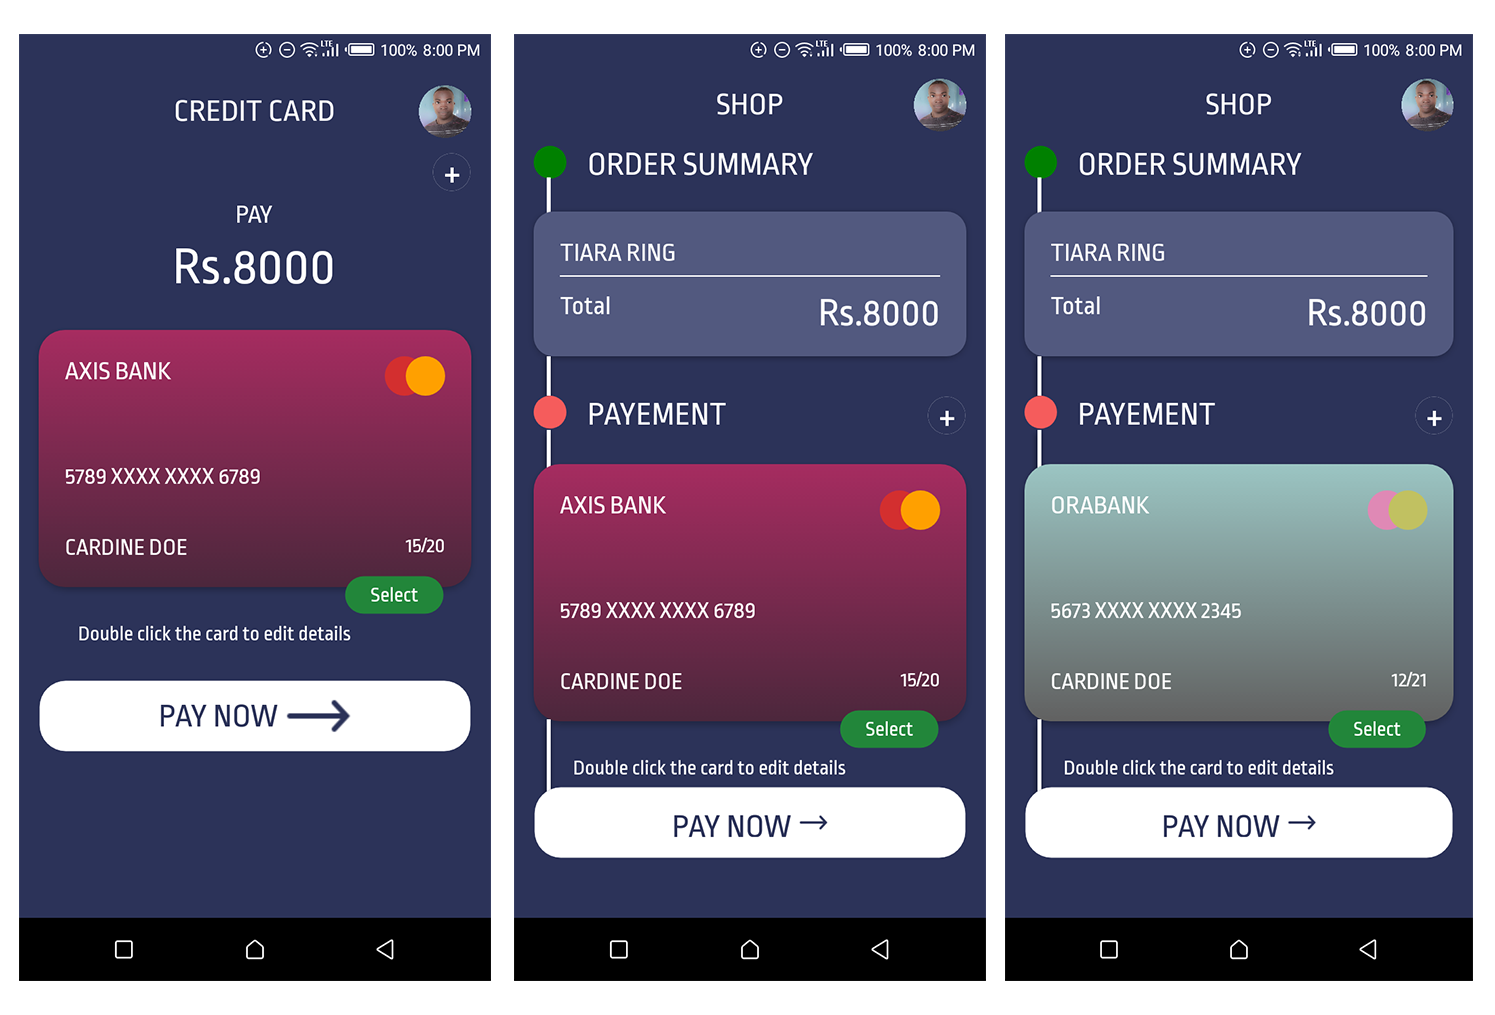
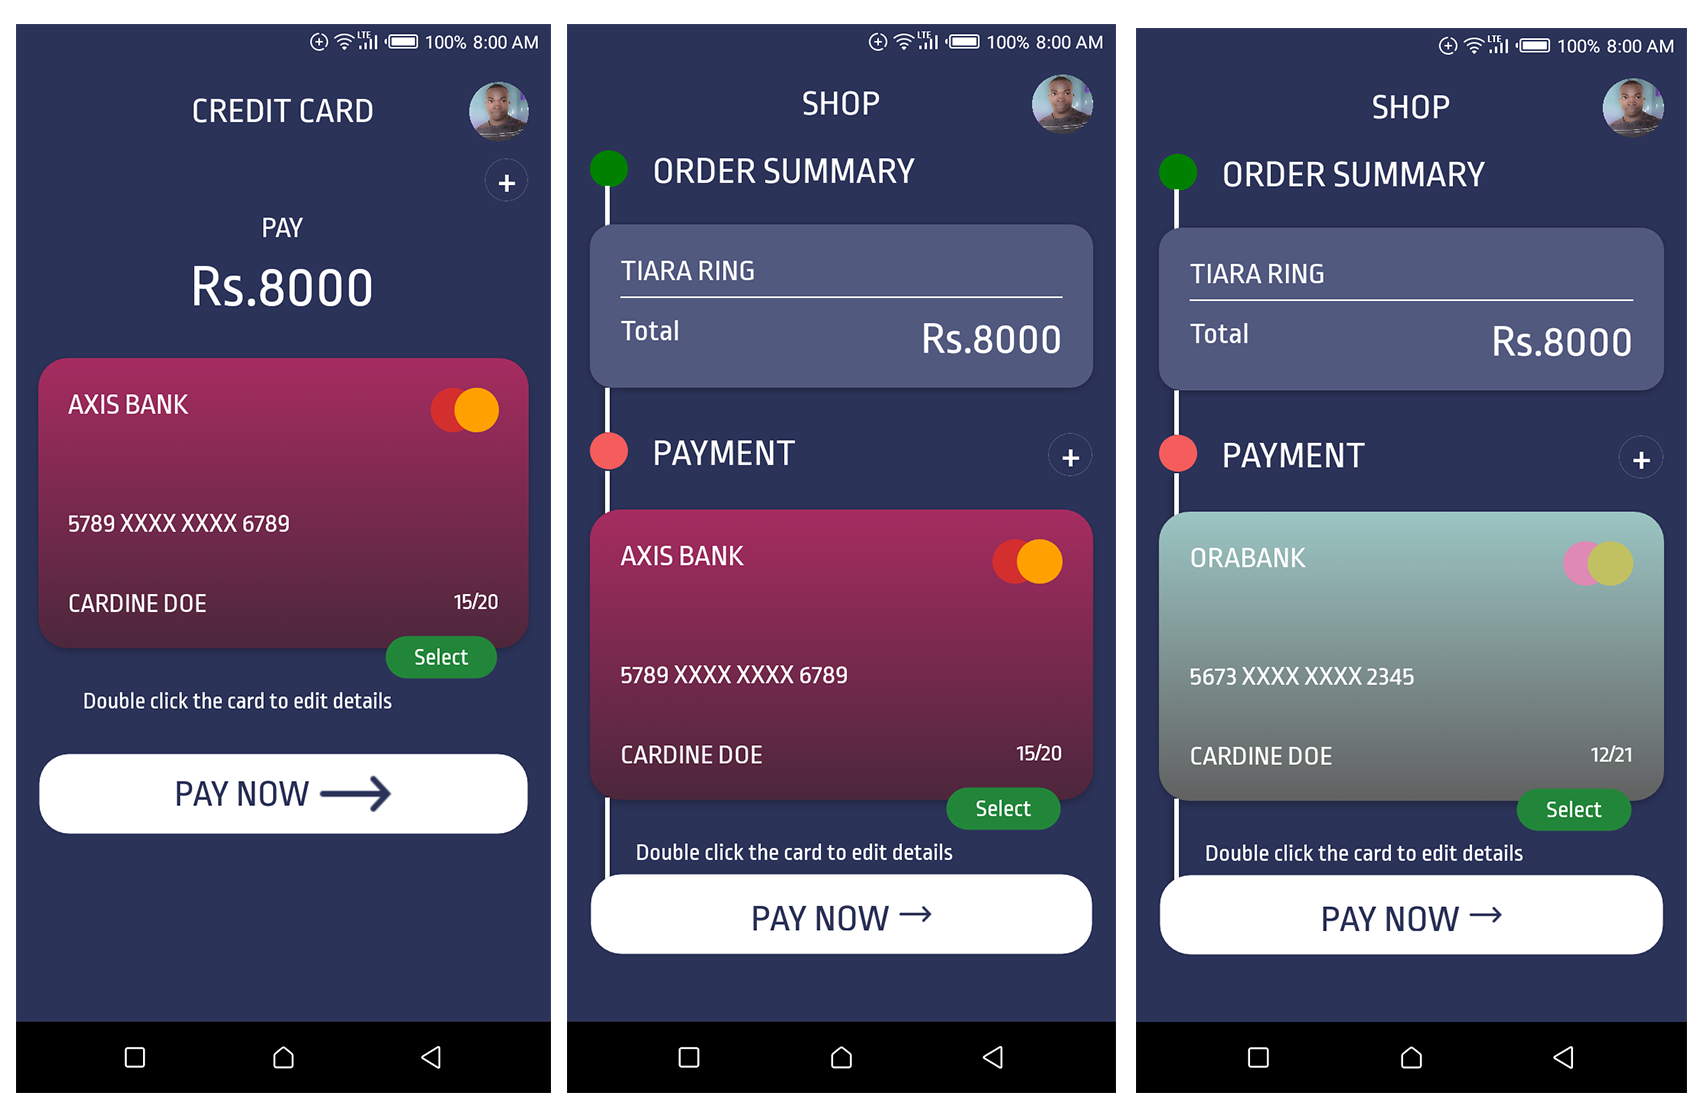
Screenshots updated and typo fixed.

Changed region(s): [[0.0, 0.0, 1.0, 0.9773], [0.0923, 0.1833, 0.2462, 0.2749], [0.0923, 0.0916, 0.2462, 0.1222]]

diff --git a/ShopTimeline/ShopTimeline/Views/ShopView.xaml b/ShopTimeline/ShopTimeline/Views/ShopView.xaml
@@ -131,7 +131,7 @@
                             Margin="10,0,0,0"
                             FontSize="25"
                             Style="{StaticResource LabeStyle}"
-                            Text="PAYEMENT" />
+                            Text="PAYMENT" />
                         <flex:FlexButton
                             Padding="0"
                             BackgroundColor="#2C3359"
